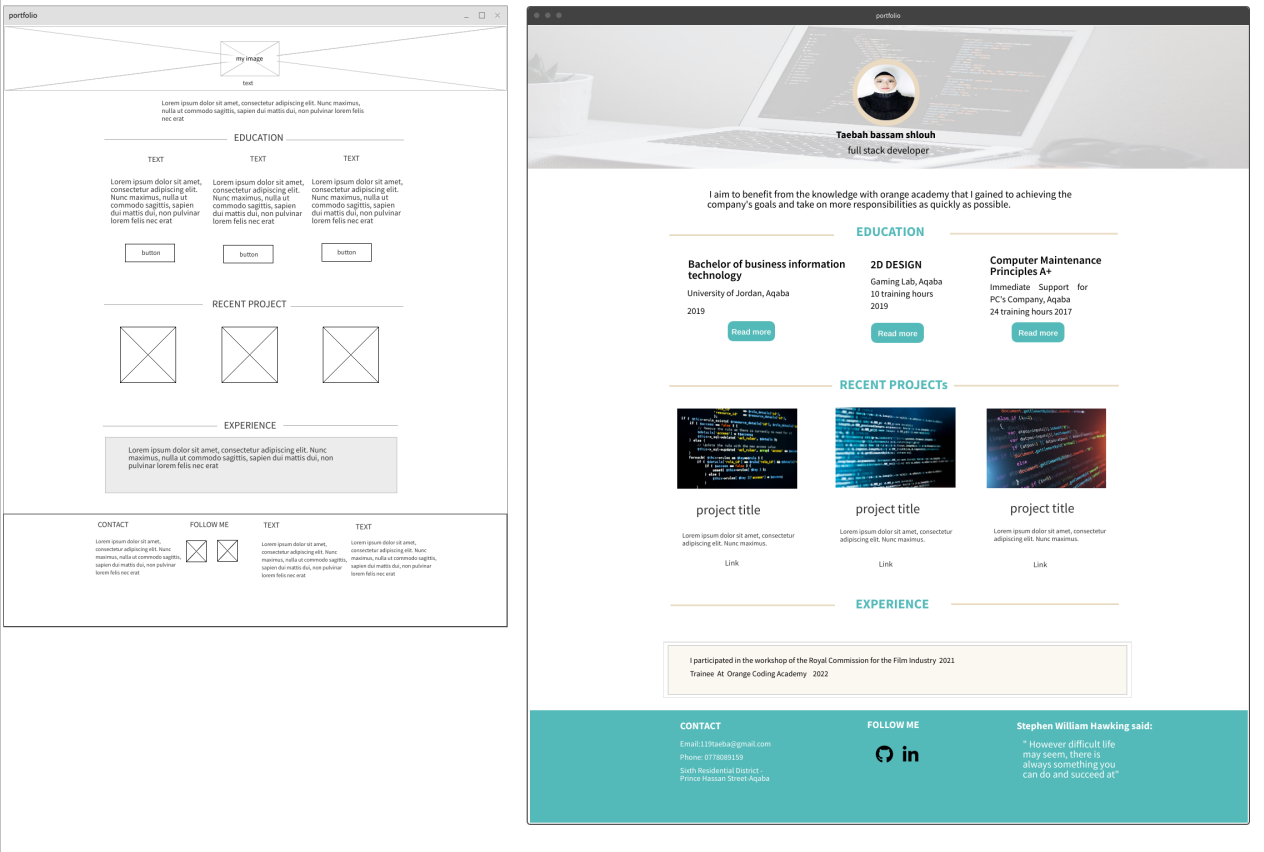
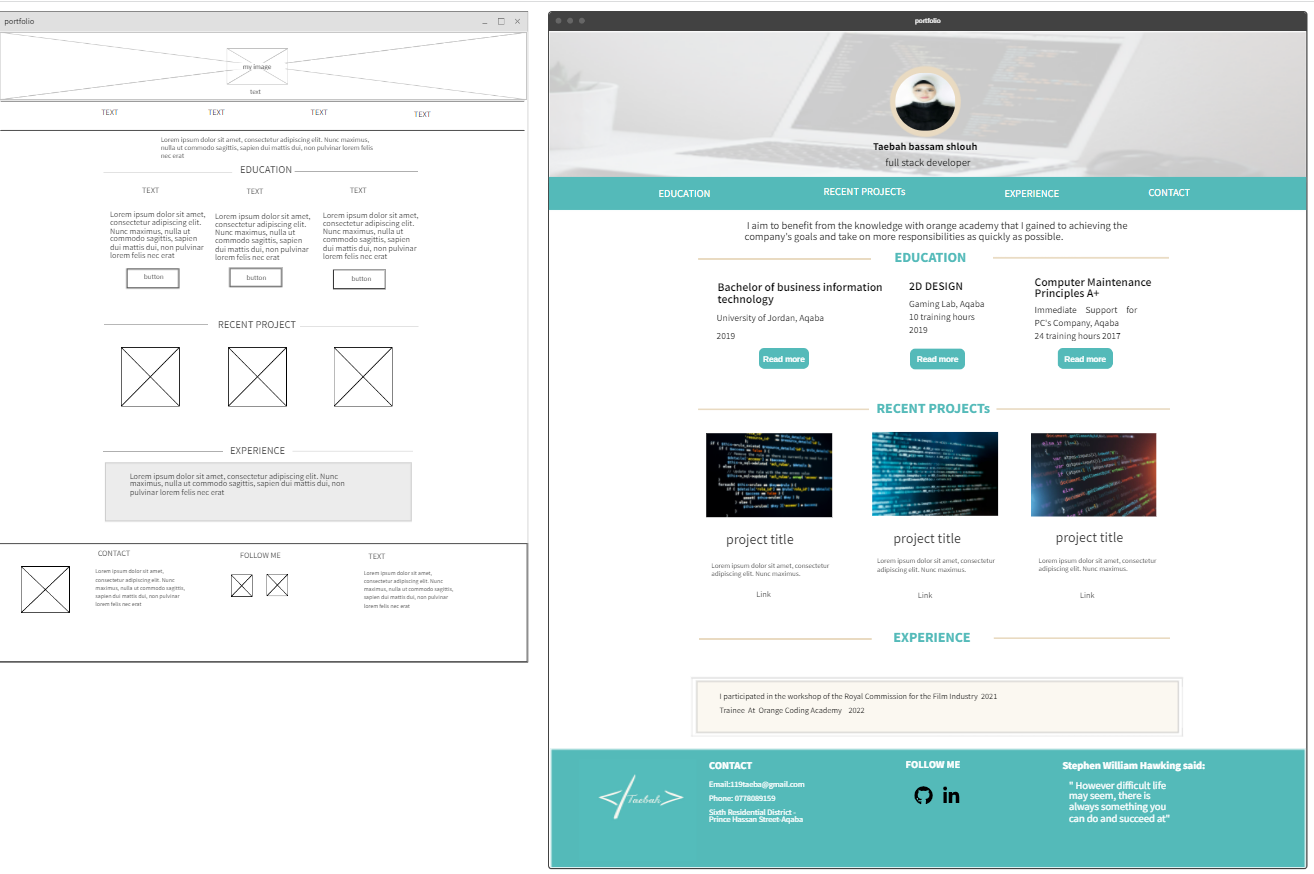
portfolio project using html and css til now

diff --git a/index.html b/index.html
@@ -4,16 +4,22 @@
     <meta charset="UTF-8">
     <meta http-equiv="X-UA-Compatible" content="IE=edge">
     <meta name="viewport" content="width=device-width, initial-scale=1.0">
-    <link rel="stylesheet" href="style.css">
-    <link rel="stylesheet" href="bootstrap-grid.css">
-
+    <link rel="stylesheet" href="./project1/style.css">
+    <link rel="stylesheet" href="./project1/mediaq.css">
+     <link rel="stylesheet" href="bootstrap-grid.css">
     <title>portfolio</title>
 </head>
 <body>
        <!-- header part -->
        <header>
+           <nav class="nav">
+                       <a href="#edu">EDUCATION</a>
+                       <a href="#re" >RECENT PROJECTs</a>
+                       <a href="#exp" >EXPERIENCE</a>
+                       <a href="#container-footer">CONTACT</a>
+           </nav>
         <div id="header-midd-cont">
-                <img src="../imges/taebah.jpg" alt="taebah img" id="mypic">
+                <img src="./imges/taebah.jpg" alt="taebah img" id="mypic">
             <div id="header-midd-cont-1">
             <h2><b>Taebah bassam shlouh</b></h2>
              <p>full stack developer</p>
@@ -23,7 +29,7 @@
     <!-- header end -->
 
       <!-- main start -->
-    <main class="container">
+    <main class="container1">
         <!-- objectives section start -->
          <section id="objec">
              <p id="objecp"> I aim to benefit from the knowledge with orange academy that I gained to achieving the company's goals and take on more responsibilities as quickly as possible.</p>
@@ -66,21 +72,21 @@
                 <div class="recent-projects-card">
                     <div id="card1">
                        
-                           <img src="../imges/php-2.png" alt="php">
+                           <img src="./imges/php-2.png" alt="php">
                            <h3>project title</h3>
                            <p>Lorem ipsum dolor sit amet, consectetur adipiscing elit. Nunc maximus.</p>
                             <a href="#">Link</a>
                     </div>
                     <div id="card2">
                         
-                        <img src="../imges/istockphoto-182465097-612x612.jpg" alt="stockphoto">
+                        <img src="./imges/code.jpg" alt="stockphoto">
                         <h3>project title</h3>
                         <p>Lorem ipsum dolor sit amet, consectetur adipiscing elit. Nunc maximus.</p>
                         <a href="#">Link</a>
                     </div>
                     <div id="card3">
                         
-                        <img src="../imges/M2e0d44b18050fd6c765a688ab221a1d61646933005421.jpg" alt="code">
+                        <img src="./imges/php.jpg" alt="code">
                         <h3>project title</h3>
                         <p>Lorem ipsum dolor sit amet, consectetur adipiscing elit. Nunc maximus.</p>
                         <a href="#">Link</a>
@@ -111,6 +117,10 @@
      <!-- footer start -->
     <footer id="container-footer">
     <!--the first div in the footer section -->
+       <!-- logo -->
+    <div class="f-logo">
+        <img src="./imges/logo.jpeg" width="100px" height="100px" alt="">
+    </div>
           <div id="fdiv1">
               <h3>CONTACT</h3>
               <p>Email:119taeba@gmail.com

diff --git a/project1/style.css b/project1/style.css
@@ -13,6 +13,21 @@
       background-repeat: no-repeat;
       background-size: 100% 100%;
   }
+  /*navigation bar*/
+  .nav{
+      width: 100%;
+      background-color: #54BAB9;
+      width: 100%;
+      height:50px;
+      position: absolute;
+      top: 350px;
+      padding-top: 15px;
+  }
+  .nav a{
+      color: white;
+      text-decoration: none;
+      margin-left: 14%;
+  }
   #header-midd-cont{
       position: absolute;
       top: 27%;
@@ -49,13 +64,13 @@ top: 138px;
 
 
 /*main grid*/
-.container{
+.container1{
     position: relative;
-    top: 350px;
+    top: 380px;
     height: 1500px;
     display: grid;
-    grid-template-columns: 15% 70% 15%;
-    grid-template-rows: 7% 22% 30% 8% ;
+    grid-template-columns: 20% 60% 20%;
+    grid-template-rows: 9% 22% 30% 10% ;
 }
 
 
@@ -63,6 +78,7 @@ top: 138px;
 #objec{
     grid-column-start: 2;
     grid-row-start: 1;
+    padding-top: 25px;
     padding-left: 50px;
 }
 #objecp{
@@ -103,7 +119,7 @@ top: 138px;
 #n2{
     position: relative;
     top: -138px;
-    left: 350px;
+    left: 390px;
     width: 20vh;
 }
 #n2 button{
@@ -112,7 +128,7 @@ top: 138px;
 #n3{
     position: relative;
     top: -330px;
-    left: 540px; 
+    left: 600px; 
     width: 30vh;
 }
 #n3 button{
@@ -129,9 +145,6 @@ button:hover{
     font-family: Arial, Helvetica, sans-serif;
     text-shadow: 2px 2px 4px rgba(0, 0, 0, 0.562);
 }
-
-
-
 .h2 {
     font-family: 'Open Sans', sans-serif;
     width: 100%; 
@@ -147,7 +160,6 @@ button:hover{
      background-color:#fff; 
      padding:0 15px; 
  }
-
 
 
 
@@ -175,15 +187,15 @@ height: 400px;
 
 .recent-projects-card p{
     font-family: 'Libre Franklin', sans-serif;
-    font-size: 12px;
+    font-size: 13px;
     width: 250px;  
 }
 img{
-    width:200px;
-    height: 150px;
+    width:230px;
+    height: 160px;
 }
 #re a{
-padding-left: 80px;
+padding-left: 90px;
 font-family: 'Libre Franklin', sans-serif;
 text-decoration: none;
 font-size: 13px;
@@ -194,14 +206,15 @@ font-size: 13px;
     top: 50px;
 }
 #card1{
- left: 30px;
+ left: 45px;
 }
 #card2{
-    left: 290px;
+    left: 340px;
 }
 #card3{
-    left:560px ;
+    left:630px ;
 }
+
 
  /*Experince section*/
  #exp{
@@ -226,6 +239,7 @@ font-size: 13px;
      padding-left: 20px;
  }
 
+
  /*footer section*/
  #container-footer{
      display: grid;
@@ -242,6 +256,11 @@ font-size: 13px;
      padding-top:10px ;
      color: white;
      font-family:  'Arial Narrow Bold', sans-serif;
+ }
+ /*logo*/
+ .f-logo{
+     margin-top: 35px;
+   margin-left: 35px;   
  }
  /*div's in the footer*/
 #fdiv1{
@@ -265,7 +284,4 @@ svg{
     padding-top: 15px;
     width: 50px;
     height: 50px;
-}
-@media screen {
-    
 }

diff --git a/project1/mediaq.css b/project1/mediaq.css
@@ -1,0 +1,67 @@
+
+
+
+/*width 1440 t0 1024 px*/
+    @media screen and (max-width:1440px) and (min-width:1024px){
+        #container-footer {
+            margin-top: 15%;}
+
+         .recent-projects-card {
+                margin-left: -5%;}
+           
+                   footer {
+                    top: 219vh;
+                    width: 1435px;
+                }
+             .f-logo {
+                        margin-top: 35px;
+                        margin-left: -24px;
+                    }
+            header{
+                width: 100%;
+            }
+            #objec {
+                padding-top: 39px;
+                padding-left: 50px;
+            }
+    }
+    /*1024 to 768px*/
+    @media screen and (max-width:1024px) and (min-width:768px){
+
+        .recent-projects-card {
+            margin-left: -175px;
+            width: 710px;}
+            .edu-div {
+                margin-left: -160px;
+                height: 238px;
+            }
+            img {
+                width: 180px;
+                height: 148px;
+            }
+            #card2 {
+                left: 280px;
+            }
+            #card3 {
+                left: 515px;
+            }
+            
+            #n2 {
+                top: -140px;
+                left: 344px;}
+            #n3 {
+                top: -345px;
+                left: 480px;
+            }
+            footer {
+                width: 768px;              
+              top: 250vh;
+            }
+            .f-logo {
+                margin-top: 40px;
+                margin-left: -2px;
+            }           
+    }
+    @media screen and (max-width:768px) and (min-width:425px) {
+        
+    }

diff --git a/README.md b/README.md
@@ -1,11 +1,11 @@
-# project1### Hi there 👋, my name is Taebah bassam shlouh
+#My portfolio### this is my first project  
 
-Skills:  HTML / CSS
-
+I used:  HTML / CSS
+in my project
 
 
 [<img src='https://cdn.jsdelivr.net/npm/simple-icons@3.0.1/icons/github.svg' alt='github' height='40'>](https://github.com/taebah-alshlouh)  [<img src='https://cdn.jsdelivr.net/npm/simple-icons@3.0.1/icons/linkedin.svg' alt='linkedin' height='40'>](https://www.linkedin.com/in/https://www.linkedin.com/in/taebah-shlouh-2b2401146//)  
 
-[GitHub Pages](https://github.com/taebah-alshlouh/project1/)
-[Live link](https://taebah-alshlouh.github.io/project1/)
-![mockup&wireframe](mockup%26wireframe.png)
+[GitHub Pages](https://github.com/taebah-alshlouh/project1/).
+ [Live Link](https://taebah-alshlouh.github.io/project1/).
+![mockup&wireframe](Mockup&wireframe.png)
